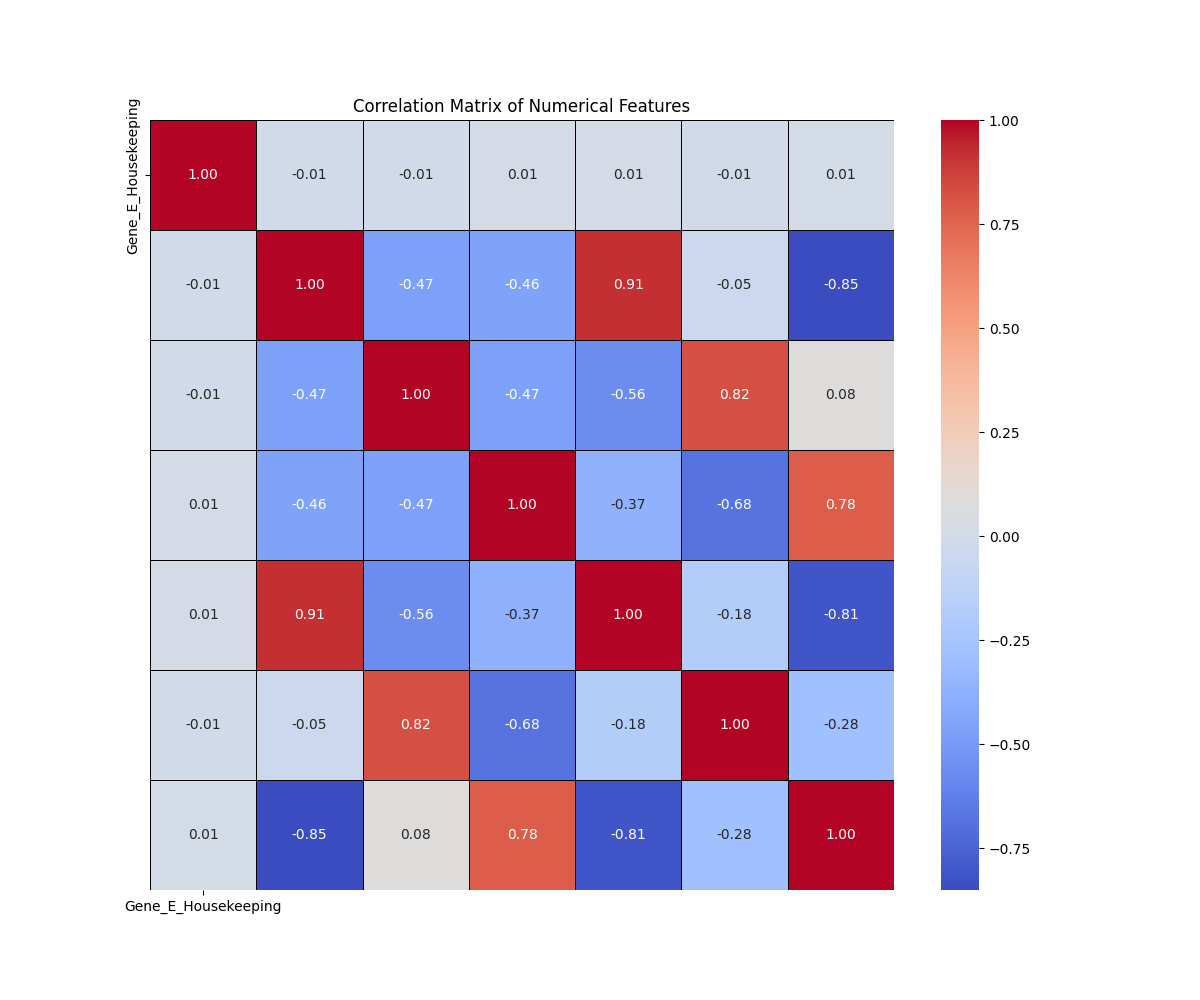
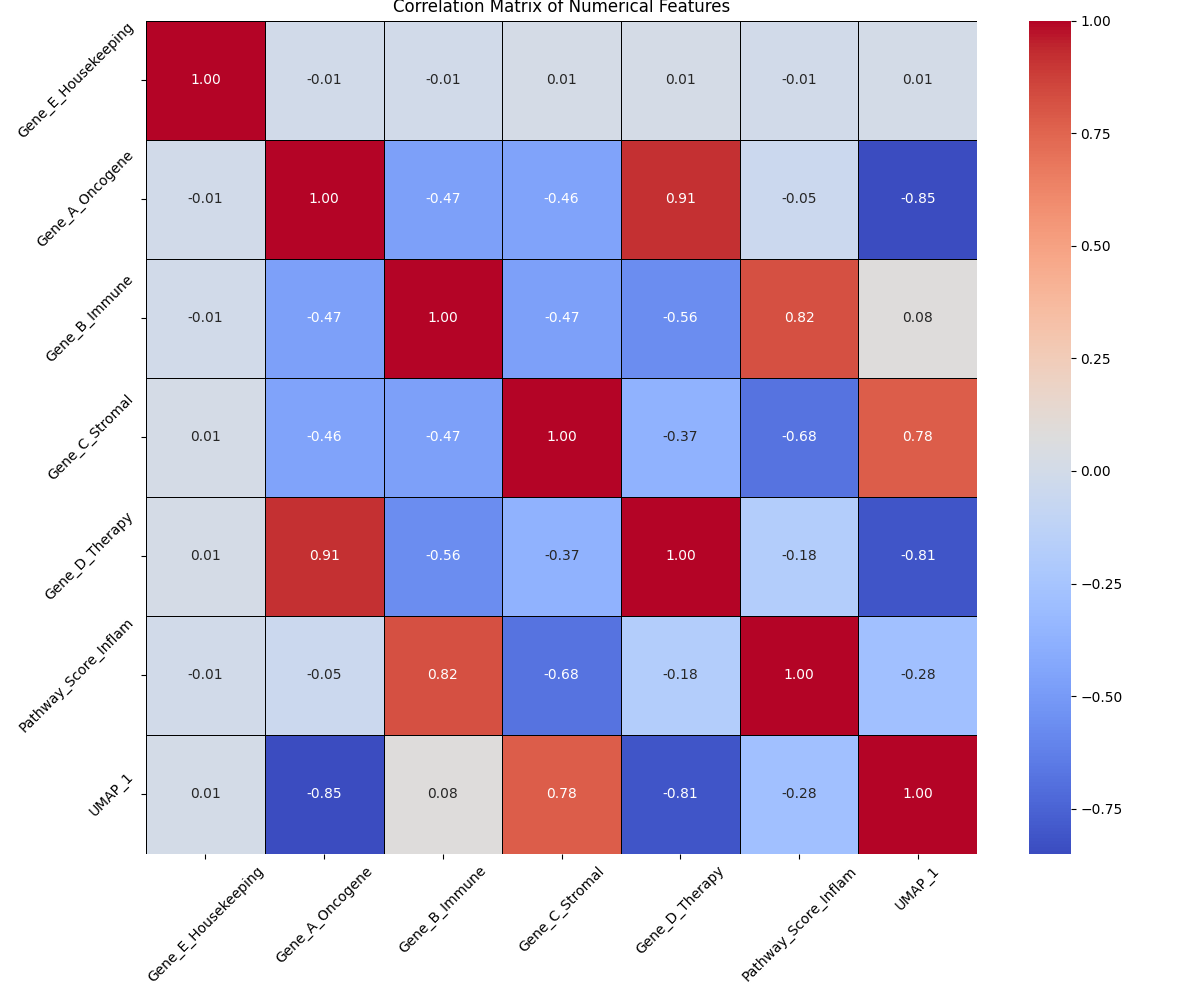
updating figures

diff --git a/preprocess.py b/preprocess.py
@@ -65,9 +65,10 @@ sns.heatmap(
     cbar=True,
     linewidths=0.5,
     linecolor='black',
-    yticklabels=45,
-    xticklabels=45
 )
+plt.yticks(rotation=45) 
+plt.xticks(rotation=45)
+plt.tight_layout()
 plt.title('Correlation Matrix of Numerical Features')
 plt.savefig(f'./figures/gene_heatmap.png')
 
